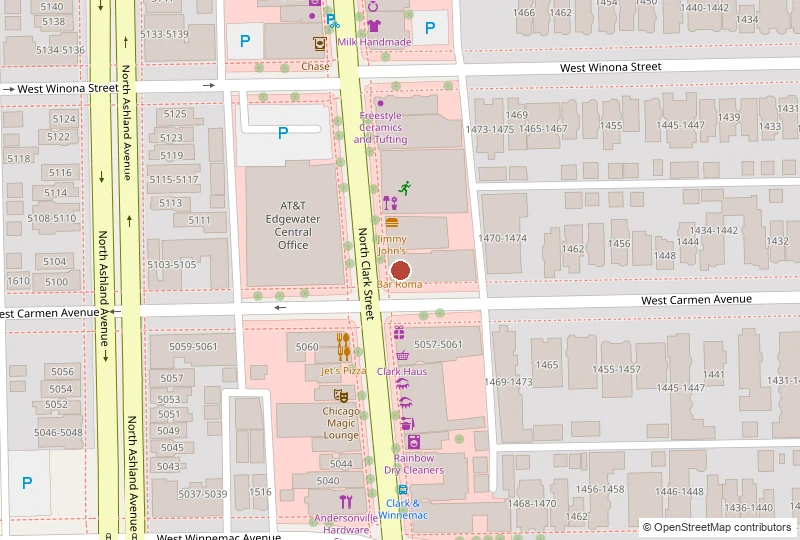
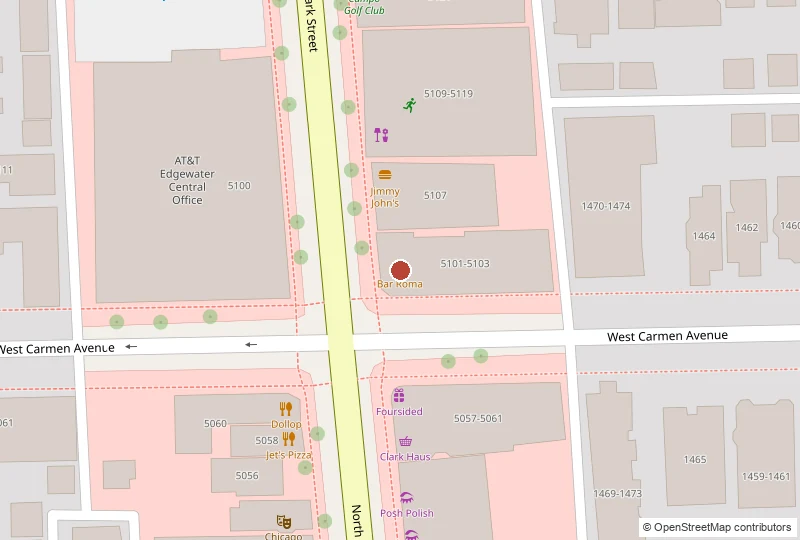
fix(maps): zoom 18→19 — building-level detail
Final zoom step. ~125m horizontal view shows the venue's block in detail
with adjacent buildings/businesses individually labeled. Bundle drops
again, 1.9M → 1.1M.

diff --git a/scripts/build_business_maps.py b/scripts/build_business_maps.py
@@ -32,7 +32,7 @@ BUSINESSES_YAML = REPO_ROOT / "config" / "businesses.yaml"
 OUT_DIR = REPO_ROOT / "public" / "images" / "maps"
 
 WIDTH, HEIGHT = 800, 540
-ZOOM = 18
+ZOOM = 19
 TILE_PX = 256
 MARKER_RED = (184, 68, 53)        # --riso-red
 MARKER_OUTLINE = (255, 255, 255)
